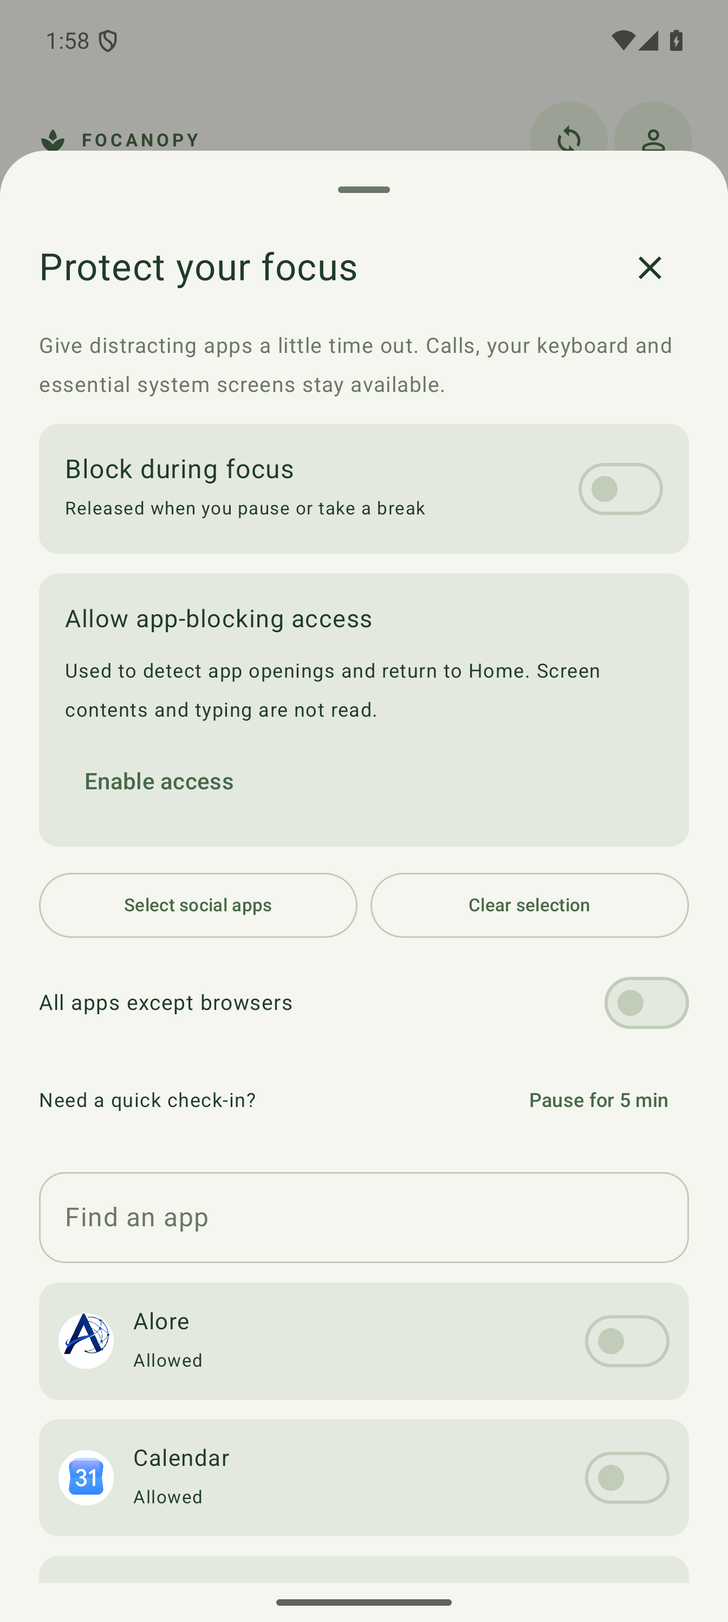
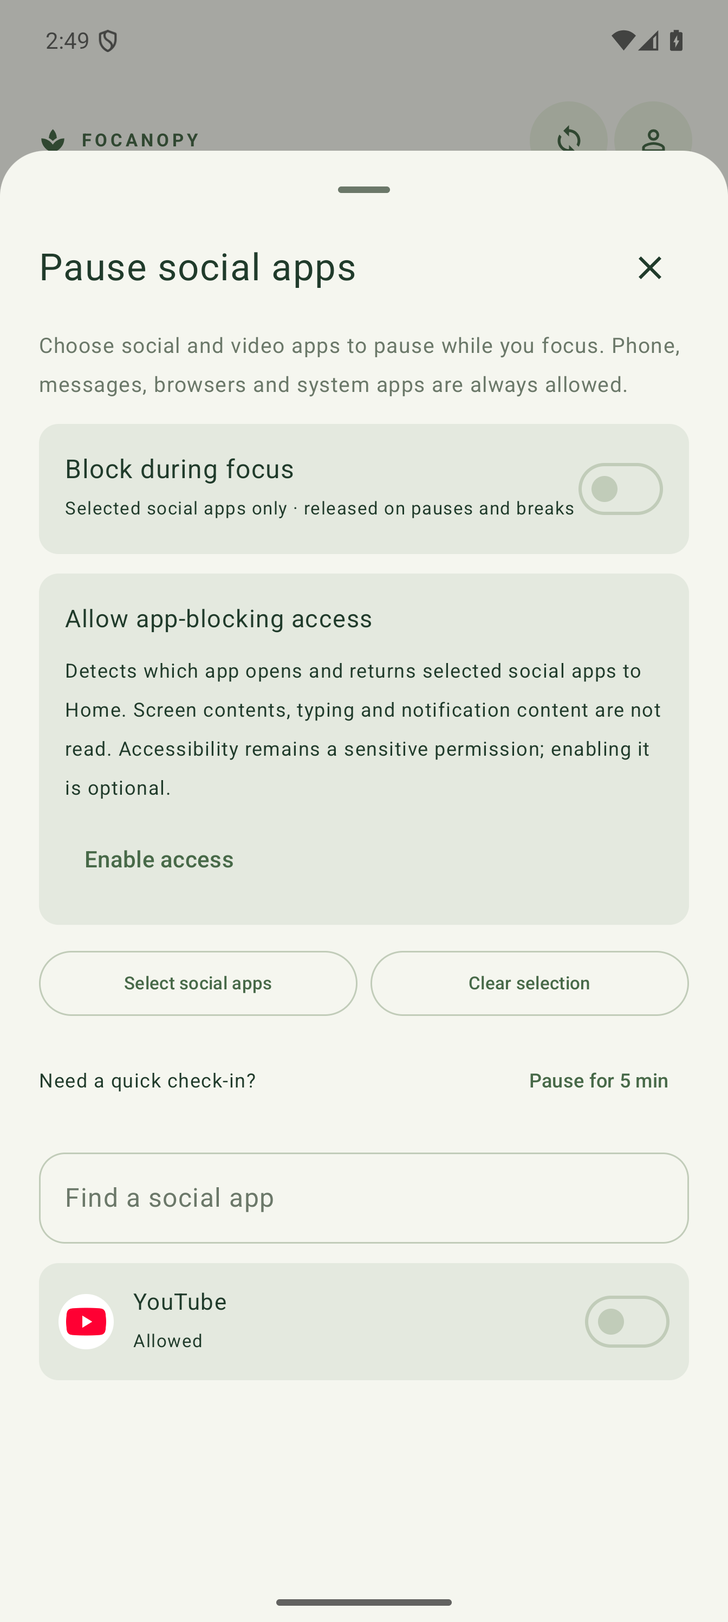
Limit Android focus blocking to selected social apps and clarify Play Protect limits

diff --git a/android/app/src/main/java/com/cybercat/stopwatch/BlockingSheet.kt b/android/app/src/main/java/com/cybercat/stopwatch/BlockingSheet.kt
@@ -1,9 +1,7 @@
 package com.cybercat.stopwatch
 
 import android.content.ComponentName
-import android.content.Intent
 import android.content.pm.PackageManager
-import android.net.Uri
 import android.provider.Settings
 import androidx.compose.foundation.layout.*
 import androidx.compose.foundation.lazy.LazyColumn
@@ -15,7 +13,6 @@ import androidx.compose.material3.*
 import androidx.compose.runtime.*
 import androidx.compose.ui.Alignment
 import androidx.compose.ui.Modifier
-import androidx.compose.ui.graphics.Color
 import androidx.compose.ui.platform.LocalContext
 import androidx.compose.ui.semantics.semantics
 import androidx.compose.ui.semantics.contentDescription
@@ -30,73 +27,63 @@ fun BlockingSheet(revision:Int,onAction:(String)->Unit,onClose:()->Unit) {
     val context=LocalContext.current
     val prefs=Repository.prefs
     var enabled by remember {mutableStateOf(prefs.getBoolean("focusBlocking",false))}
-    var all by remember {mutableStateOf(prefs.getBoolean("focusBlockAll",false))}
-    var selected by remember {mutableStateOf(prefs.getStringSet("blockedApps",emptySet()).orEmpty().toSet())}
-    var excluded by remember {mutableStateOf(prefs.getStringSet("excludedApps",emptySet()).orEmpty().toSet())}
+    var selected by remember {mutableStateOf(SocialApps.selection(prefs.getStringSet("blockedApps",emptySet()).orEmpty()))}
     var search by remember {mutableStateOf("")}
-    var apps by remember {mutableStateOf<List<android.content.pm.ResolveInfo>>(emptyList())}
-    var browsers by remember {mutableStateOf<Set<String>>(emptySet())}
+    var apps by remember {mutableStateOf<List<android.content.pm.ApplicationInfo>>(emptyList())}
     val component=ComponentName(context.packageName,FocusServiceName).flattenToString()
-    val granted=remember(revision) {(Settings.Secure.getString(context.contentResolver,Settings.Secure.ENABLED_ACCESSIBILITY_SERVICES) ?: "").split(':').any {it.equals(component,true)}}
+    val granted=remember(revision) {(Settings.Secure.getString(context.contentResolver,Settings.Secure.ENABLED_ACCESSIBILITY_SERVICES) ?: "").split(':').any {ComponentName.unflattenFromString(it)==ComponentName.unflattenFromString(component)}}
     val paused=prefs.getLong("blockSnoozeUntil",0)>System.currentTimeMillis()
-    fun persist() {prefs.edit().putBoolean("focusBlocking",enabled).putBoolean("focusBlockAll",all).putStringSet("blockedApps",selected).putStringSet("excludedApps",excluded).apply();onAction("refresh")}
+    fun persist() {prefs.edit().putBoolean("focusBlocking",enabled).putBoolean("focusBlockAll",false).putStringSet("blockedApps",SocialApps.selection(selected)).remove("excludedApps").apply();onAction("refresh")}
     LaunchedEffect(Unit) {
         if(!BuildConfig.APP_BLOCKING_AVAILABLE)return@LaunchedEffect
-        withContext(Dispatchers.IO) {
+        val installed=withContext(Dispatchers.IO) {
             val pm=context.packageManager
-            val homes=pm.queryIntentActivities(Intent(Intent.ACTION_MAIN).addCategory(Intent.CATEGORY_HOME),0).map{it.activityInfo.packageName}.toSet()
-            val keyboards=(context.getSystemService(android.content.Context.INPUT_METHOD_SERVICE) as android.view.inputmethod.InputMethodManager).enabledInputMethodList.map{it.packageName}.toSet()
-            val protected=homes+keyboards+setOf(context.packageName,"com.android.settings","com.android.phone","com.google.android.dialer","com.android.dialer")
-            val installed=pm.queryIntentActivities(Intent(Intent.ACTION_MAIN).addCategory(Intent.CATEGORY_LAUNCHER),0).filter{it.activityInfo.packageName !in protected}.distinctBy{it.activityInfo.packageName}.sortedBy{it.loadLabel(pm).toString().lowercase()}
-            val browserApps=pm.queryIntentActivities(Intent(Intent.ACTION_VIEW,Uri.parse("https://example.com")).addCategory(Intent.CATEGORY_BROWSABLE),PackageManager.GET_RESOLVED_FILTER).filter{it.filter?.countDataAuthorities()==0}.map{it.activityInfo.packageName}.toSet()
-            withContext(Dispatchers.Main) {apps=installed;browsers=browserApps}
+            SocialApps.packages.mapNotNull {id->
+                try {pm.getApplicationInfo(id,0).takeIf {it.enabled}}catch(_:PackageManager.NameNotFoundException){null}
+            }.sortedBy {it.loadLabel(pm).toString().lowercase()}
         }
+        apps=installed
     }
     LazyColumn(Modifier.fillMaxWidth().fillMaxHeight(.9f),contentPadding=PaddingValues(24.dp,0.dp,24.dp,32.dp),verticalArrangement=Arrangement.spacedBy(12.dp)) {
-        item {Row(verticalAlignment=Alignment.CenterVertically) {Text("Protect your focus",fontSize=23.sp,modifier=Modifier.weight(1f));IconButton(onClick=onClose){Icon(Icons.Default.Close,"Close app blocking")}}}
-        item {Text("Give distracting apps a little time out. Calls, your keyboard and essential system screens stay available.",fontSize=13.sp,color=MaterialTheme.colorScheme.onSurfaceVariant)}
+        item {Row(verticalAlignment=Alignment.CenterVertically) {Text("Pause social apps",fontSize=23.sp,modifier=Modifier.weight(1f));IconButton(onClick=onClose){Icon(Icons.Default.Close,"Close app blocking")}}}
+        item {Text("Choose social and video apps to pause while you focus. Phone, messages, browsers and system apps are always allowed.",fontSize=13.sp,color=MaterialTheme.colorScheme.onSurfaceVariant)}
         if(!BuildConfig.APP_BLOCKING_AVAILABLE) {
             item {Card {Column(Modifier.padding(20.dp),verticalArrangement=Arrangement.spacedBy(12.dp)) {
                 Icon(Icons.Default.Shield,null)
                 Text("App-blocking edition needed",fontSize=18.sp)
-                Text("The standard edition keeps Accessibility access out of the app. Install the separate app-blocking APK to choose social apps and other distractions. Your history stays with the same app.",fontSize=13.sp)
+                Text("The standard edition keeps Accessibility access out of the app. The optional social-blocking APK can pause supported social apps, but still needs Accessibility and may be blocked by Play Protect. Your history stays with the same app.",fontSize=13.sp)
                 Button(onClick={onAction("blockingDownload")}){Text("Get app-blocking edition")}
             }}}
         } else {
             item {Card {Row(Modifier.padding(16.dp),verticalAlignment=Alignment.CenterVertically) {
-                Column(Modifier.weight(1f)){Text("Block during focus");Text("Released when you pause or take a break",fontSize=11.sp)}
+                Column(Modifier.weight(1f)){Text("Block during focus");Text("Selected social apps only · released on pauses and breaks",fontSize=11.sp)}
                 Switch(enabled,onCheckedChange={enabled=it;persist()},modifier=Modifier.semantics {contentDescription="Block during focus"})
             }}}
             item {Card {Column(Modifier.padding(16.dp),verticalArrangement=Arrangement.spacedBy(8.dp)) {
                 Text(if(granted)"Accessibility access is ready" else "Allow app-blocking access",fontSize=15.sp)
-                Text("Used to detect app openings and return to Home. Screen contents and typing are not read.",fontSize=12.sp)
+                Text("Detects which app opens and returns selected social apps to Home. Screen contents, typing and notification content are not read. Accessibility remains a sensitive permission; enabling it is optional.",fontSize=12.sp)
                 TextButton(onClick={onAction("accessibility")}){Text(if(granted)"Manage access" else "Enable access")}
             }}}
             item {Row(horizontalArrangement=Arrangement.spacedBy(8.dp)) {
-                OutlinedButton(onClick={selected=selected+apps.map{it.activityInfo.packageName}.filter{it in socialPackages};excluded=excluded-socialPackages;all=false;enabled=true;persist()},modifier=Modifier.weight(1f)){Text("Select social apps",fontSize=11.sp)}
-                OutlinedButton(onClick={selected=emptySet();all=false;persist()},modifier=Modifier.weight(1f)){Text("Clear selection",fontSize=11.sp)}
-            }}
-            item {Row(verticalAlignment=Alignment.CenterVertically) {
-                Text("All apps except browsers",fontSize=13.sp,modifier=Modifier.weight(1f))
-                Switch(all,onCheckedChange={all=it;persist()},modifier=Modifier.semantics {contentDescription="All apps except browsers"})
+                OutlinedButton(onClick={selected=apps.map{it.packageName}.toSet();enabled=true;persist()},modifier=Modifier.weight(1f)){Text("Select social apps",fontSize=11.sp)}
+                OutlinedButton(onClick={selected=emptySet();persist()},modifier=Modifier.weight(1f)){Text("Clear selection",fontSize=11.sp)}
             }}
             item {Row(verticalAlignment=Alignment.CenterVertically,horizontalArrangement=Arrangement.spacedBy(8.dp)) {
                 Text(if(paused)"Blocks paused" else "Need a quick check-in?",fontSize=12.sp,modifier=Modifier.weight(1f))
                 TextButton(onClick={prefs.edit().putLong("blockSnoozeUntil",if(paused)0 else System.currentTimeMillis()+5*60000).apply();onAction("refresh")}){Text(if(paused)"Resume blocks" else "Pause for 5 min",fontSize=12.sp)}
             }}
-            item {OutlinedTextField(search,{search=it},label={Text("Find an app")},singleLine=true,modifier=Modifier.fillMaxWidth(),shape=RoundedCornerShape(16.dp))}
-            items(apps.filter{it.loadLabel(context.packageManager).toString().contains(search,true)},key={it.activityInfo.packageName}) {app->
-                val id=app.activityInfo.packageName
-                val browserAllowed=all && id in browsers
-                val on=!browserAllowed && id !in excluded && (all || id in selected)
+            item {OutlinedTextField(search,{search=it},label={Text("Find a social app")},singleLine=true,modifier=Modifier.fillMaxWidth(),shape=RoundedCornerShape(16.dp))}
+            if(apps.isEmpty()) item {Text("No supported social apps are installed. Phone, messages and other apps stay available.",fontSize=13.sp,color=MaterialTheme.colorScheme.onSurfaceVariant)}
+            items(apps.filter{it.loadLabel(context.packageManager).toString().contains(search,true)},key={it.packageName}) {app->
+                val id=app.packageName
+                val on=id in selected
                 Card {Row(Modifier.fillMaxWidth().padding(12.dp),verticalAlignment=Alignment.CenterVertically) {
                     AndroidView(factory={android.widget.ImageView(it).apply {importantForAccessibility=android.view.View.IMPORTANT_FOR_ACCESSIBILITY_NO}},update={it.setImageDrawable(app.loadIcon(context.packageManager))},modifier=Modifier.size(34.dp))
-                    Column(Modifier.weight(1f).padding(horizontal=12.dp)){Text(app.loadLabel(context.packageManager).toString(),fontSize=14.sp);Text(if(browserAllowed)"Browser · allowed" else if(on)"Blocked while focusing" else "Allowed",fontSize=11.sp)}
-                    Switch(on,onCheckedChange={value->if(all)excluded=if(value)excluded-id else excluded+id else {selected=if(value)selected+id else selected-id;if(value)excluded=excluded-id};persist()},enabled=!browserAllowed,modifier=Modifier.semantics {contentDescription="Block ${app.loadLabel(context.packageManager)}"})
+                    Column(Modifier.weight(1f).padding(horizontal=12.dp)){Text(app.loadLabel(context.packageManager).toString(),fontSize=14.sp);Text(if(on)"Blocked while focusing" else "Allowed",fontSize=11.sp)}
+                    Switch(on,onCheckedChange={value->selected=if(value)selected+id else selected-id;persist()},modifier=Modifier.semantics {contentDescription="Block ${app.loadLabel(context.packageManager)}"})
                 }}
             }
         }
     }
 }
 private const val FocusServiceName="com.cybercat.stopwatch.FocusAccessibilityService"
-private val socialPackages=setOf("com.instagram.android","com.facebook.katana","com.facebook.orca","com.twitter.android","com.reddit.frontpage","com.snapchat.android","com.zhiliaoapp.musically","com.ss.android.ugc.trill","com.pinterest","org.telegram.messenger","com.discord","com.whatsapp","com.google.android.youtube")

diff --git a/android/app/src/androidTest/java/com/cybercat/stopwatch/FocusBlockingDeviceTest.kt b/android/app/src/androidTest/java/com/cybercat/stopwatch/FocusBlockingDeviceTest.kt
@@ -12,7 +12,7 @@ class FocusBlockingDeviceTest {
         val deadline=android.os.SystemClock.elapsedRealtime()+timeout
         while(!condition()) {check(android.os.SystemClock.elapsedRealtime()<deadline){"Foreground app did not reach the expected blocking state"};Thread.sleep(100)}
     }
-    @Test fun selectedAppsBlockAndSnoozeWithoutPomodoro() {
+    @Test fun socialOnlyPolicyKeepsBrowserAndSettingsAvailable() {
         if(!BuildConfig.APP_BLOCKING_AVAILABLE)return
         val activity=InstrumentationRegistry.getInstrumentation().targetContext
         check(activity.packageName.endsWith(".qa"))
@@ -27,21 +27,61 @@ class FocusBlockingDeviceTest {
             shell("settings put secure accessibility_enabled 1")
             val manager=activity.getSystemService(android.view.accessibility.AccessibilityManager::class.java)
             waitUntil(10000){manager.getEnabledAccessibilityServiceList(android.accessibilityservice.AccessibilityServiceInfo.FEEDBACK_ALL_MASK).any{it.resolveInfo.serviceInfo.name=="com.cybercat.stopwatch.FocusAccessibilityService"}}
+            Thread.sleep(500)
             InstrumentationRegistry.getInstrumentation().runOnMainSync {
                 Repository.discard();Repository.selectMode(false)
-                Repository.prefs.edit().putBoolean("focusBlocking",true).putBoolean("focusBlockAll",false).putStringSet("blockedApps",setOf("com.android.chrome")).putStringSet("excludedApps",emptySet()).putLong("blockSnoozeUntil",0).apply()
+                Repository.prefs.edit().putBoolean("focusBlocking",true).putBoolean("focusBlockAll",true).putStringSet("blockedApps",setOf("com.android.chrome","com.android.settings","com.android.phone")).putStringSet("excludedApps",emptySet()).putLong("blockSnoozeUntil",0).apply()
                 Repository.start()
             }
             fun openChrome(){activity.startActivity(activity.packageManager.getLaunchIntentForPackage("com.android.chrome")!!.addFlags(android.content.Intent.FLAG_ACTIVITY_NEW_TASK));Thread.sleep(700)}
             fun chromeVisible()=automation.rootInActiveWindow?.packageName?.toString()=="com.android.chrome"
-            openChrome();waitUntil(5000){!chromeVisible()}
+            openChrome();waitUntil(5000){chromeVisible()}
+            Thread.sleep(1400)
+            Assert.assertTrue("Legacy selected browser must remain available",chromeVisible())
+            Assert.assertTrue("Focus must keep running",Repository.engine.phase=="running")
+            activity.startActivity(android.content.Intent(android.provider.Settings.ACTION_SETTINGS).addFlags(android.content.Intent.FLAG_ACTIVITY_NEW_TASK))
+            waitUntil(5000){automation.rootInActiveWindow?.packageName?.toString()=="com.android.settings"}
+            Thread.sleep(1400)
+            Assert.assertEquals("com.android.settings",automation.rootInActiveWindow?.packageName?.toString())
+        } finally {
+            InstrumentationRegistry.getInstrumentation().runOnMainSync {Repository.discard();Repository.prefs.edit().putBoolean("focusBlocking",false).putLong("blockSnoozeUntil",0).apply()}
+            if(original=="null" || original.isBlank())shell("settings delete secure enabled_accessibility_services") else shell("settings put secure enabled_accessibility_services $original")
+            shell("input keyevent KEYCODE_HOME")
+        }
+    }
+    @Test fun selectedSocialAppBlocksAndSnoozes() {
+        if(!BuildConfig.APP_BLOCKING_AVAILABLE)return
+        val activity=InstrumentationRegistry.getInstrumentation().targetContext
+        check(activity.packageName.endsWith(".qa"))
+        InstrumentationRegistry.getInstrumentation().runOnMainSync {Repository.init(activity)}
+        val automation=InstrumentationRegistry.getInstrumentation().getUiAutomation(android.app.UiAutomation.FLAG_DONT_SUPPRESS_ACCESSIBILITY_SERVICES)
+        fun shell(command:String):String=android.os.ParcelFileDescriptor.AutoCloseInputStream(automation.executeShellCommand(command)).bufferedReader().use{it.readText().trim()}
+        val original=shell("settings get secure enabled_accessibility_services")
+        val component="${activity.packageName}/com.cybercat.stopwatch.FocusAccessibilityService"
+        val combined=if(original=="null" || original.isBlank())component else "$original:$component"
+        try {
+            shell("settings put secure enabled_accessibility_services $combined")
+            shell("settings put secure accessibility_enabled 1")
+            val manager=activity.getSystemService(android.view.accessibility.AccessibilityManager::class.java)
+            waitUntil(10000){manager.getEnabledAccessibilityServiceList(android.accessibilityservice.AccessibilityServiceInfo.FEEDBACK_ALL_MASK).any{it.resolveInfo.serviceInfo.name=="com.cybercat.stopwatch.FocusAccessibilityService"}}
+            Thread.sleep(500)
+            InstrumentationRegistry.getInstrumentation().runOnMainSync {
+                Repository.discard();Repository.selectMode(false)
+                Repository.prefs.edit().putBoolean("focusBlocking",false).putBoolean("focusBlockAll",false).putStringSet("blockedApps",setOf("com.google.android.youtube")).putStringSet("excludedApps",emptySet()).putLong("blockSnoozeUntil",0).apply()
+                Repository.start()
+            }
+            fun openYouTube(){activity.startActivity(activity.packageManager.getLaunchIntentForPackage("com.google.android.youtube")!!.addFlags(android.content.Intent.FLAG_ACTIVITY_NEW_TASK));Thread.sleep(700)}
+            fun youtubeVisible()=automation.rootInActiveWindow?.packageName?.toString()=="com.google.android.youtube"
+            openYouTube();waitUntil(15000){youtubeVisible()}
+            InstrumentationRegistry.getInstrumentation().runOnMainSync {Repository.prefs.edit().putBoolean("focusBlocking",true).apply()}
+            waitUntil(10000){!youtubeVisible()}
             Assert.assertTrue("blocking must leave the session running",Repository.engine.phase=="running")
             InstrumentationRegistry.getInstrumentation().runOnMainSync {Repository.prefs.edit().putLong("blockSnoozeUntil",System.currentTimeMillis()+5*60000).apply()}
-            openChrome();waitUntil(5000){chromeVisible()}
+            openYouTube();waitUntil(10000){youtubeVisible()}
             InstrumentationRegistry.getInstrumentation().runOnMainSync {Repository.prefs.edit().putLong("blockSnoozeUntil",0).apply()}
-            waitUntil(5000){!chromeVisible()}
+            waitUntil(5000){!youtubeVisible()}
             InstrumentationRegistry.getInstrumentation().runOnMainSync {Repository.pause()}
-            openChrome();waitUntil(5000){chromeVisible()}
+            openYouTube();waitUntil(10000){youtubeVisible()}
         } finally {
             InstrumentationRegistry.getInstrumentation().runOnMainSync {Repository.discard();Repository.prefs.edit().putBoolean("focusBlocking",false).putLong("blockSnoozeUntil",0).apply()}
             if(original=="null" || original.isBlank())shell("settings delete secure enabled_accessibility_services") else shell("settings put secure enabled_accessibility_services $original")

diff --git a/android/app/src/appBlocking/java/com/cybercat/stopwatch/FocusAccessibilityService.kt b/android/app/src/appBlocking/java/com/cybercat/stopwatch/FocusAccessibilityService.kt
@@ -13,21 +13,6 @@ class FocusAccessibilityService:AccessibilityService() {
     private val watch=object:Runnable {override fun run(){lastPackage?.let{blockIfNeeded(it)};handler.postDelayed(this,1000)}}
     override fun onServiceConnected(){super.onServiceConnected();handler.removeCallbacks(watch);handler.post(watch)}
     override fun onDestroy(){handler.removeCallbacksAndMessages(null);super.onDestroy()}
-    private var refreshed=0L
-    private var launchers=emptySet<String>()
-    private var allowedSystem=emptySet<String>()
-    private var browsers=emptySet<String>()
-    private fun refreshApps() {
-        val now=SystemClock.elapsedRealtime()
-        if(refreshed!=0L && now-refreshed<30000)return
-        refreshed=now
-        val pm=packageManager
-        launchers=pm.queryIntentActivities(android.content.Intent(android.content.Intent.ACTION_MAIN).addCategory(android.content.Intent.CATEGORY_LAUNCHER),0).map { it.activityInfo.packageName }.toSet()
-        val home=pm.queryIntentActivities(android.content.Intent(android.content.Intent.ACTION_MAIN).addCategory(android.content.Intent.CATEGORY_HOME),0).map { it.activityInfo.packageName }.toSet()
-        val keyboards=(getSystemService(INPUT_METHOD_SERVICE) as android.view.inputmethod.InputMethodManager).enabledInputMethodList.map { it.packageName }.toSet()
-        allowedSystem=home+keyboards
-        browsers=pm.queryIntentActivities(android.content.Intent(android.content.Intent.ACTION_VIEW,android.net.Uri.parse("https://example.com")).addCategory(android.content.Intent.CATEGORY_BROWSABLE),android.content.pm.PackageManager.GET_RESOLVED_FILTER).filter { it.filter?.countDataAuthorities()==0 }.map { it.activityInfo.packageName }.toSet()
-    }
     override fun onAccessibilityEvent(event:AccessibilityEvent?) {
         if(event?.eventType!=AccessibilityEvent.TYPE_WINDOW_STATE_CHANGED)return
         lastPackage=event.packageName?.toString()
@@ -37,14 +22,10 @@ class FocusAccessibilityService:AccessibilityService() {
         Repository.init(this);Repository.advancePomodoro()
         if(Repository.prefs.getLong("blockSnoozeUntil",0)>System.currentTimeMillis())return
         if(!focusBlockingActive(Repository.pomodoroEnabled,Repository.engine.phase,Repository.pomodoro.stage,Repository.prefs.getBoolean("focusBlocking",false)))return
-        if(name==packageName || name in setOf("android","com.android.systemui","com.android.settings","com.android.phone","com.google.android.dialer","com.android.dialer","com.android.permissioncontroller","com.google.android.permissioncontroller"))return
-        val prefs=Repository.prefs
-        if(name in (prefs.getStringSet("excludedApps",emptySet()) ?: emptySet()))return
-        refreshApps()
-        if(!focusAppBlocked(name,prefs.getBoolean("focusBlockAll",false),prefs.getStringSet("blockedApps",emptySet()) ?: emptySet(),prefs.getStringSet("excludedApps",emptySet()) ?: emptySet(),browsers,allowedSystem,launchers))return
+        if(!SocialApps.blocked(name,Repository.prefs.getStringSet("blockedApps",emptySet()).orEmpty()))return
         performGlobalAction(GLOBAL_ACTION_HOME)
         val now=SystemClock.elapsedRealtime()
-        if(now-lastNotice>2000) { lastNotice=now;Toast.makeText(this,"Focus is growing. Pause the timer or disable app blocking to allow this app.",Toast.LENGTH_LONG).show() }
+        if(now-lastNotice>2000) { lastNotice=now;Toast.makeText(this,"Focus is growing. Pause the timer or pause social blocking to allow this app.",Toast.LENGTH_LONG).show() }
     }
     override fun onInterrupt() {}
 }

diff --git a/android/app/src/main/java/com/cybercat/stopwatch/FocanopyScreen.kt b/android/app/src/main/java/com/cybercat/stopwatch/FocanopyScreen.kt
@@ -182,7 +182,7 @@ fun FocanopyScreen(revision:Int,tab:String,onTab:(String)->Unit,profileOpen:Bool
                 listOf(5,10).forEach {minutes->FilterChip(selected=Repository.pomodoro.breakMinutes==minutes,onClick={Repository.selectMode(true,minutes);onAction("refresh")},label={Text("$minutes min")})}
             }}
         }
-        item {ActionRow("Protect your focus","Choose apps to keep out of your grove",Icons.Default.Shield){onAction("apps")}}
+        item {ActionRow("Protect your focus","Pause social distractions while you focus",Icons.Default.Shield){onAction("apps")}}
         item {TextButton(onClick={onAction("preview")},modifier=Modifier.fillMaxWidth()){Icon(Icons.Default.FastForward,null,Modifier.size(18.dp));Spacer(Modifier.width(8.dp));Text("Watch your grove grow")}}
         Repository.error?.let {error->item {Text(error,color=Coral,fontSize=12.sp)}}
     }
@@ -339,7 +339,7 @@ fun FocanopyScreen(revision:Int,tab:String,onTab:(String)->Unit,profileOpen:Bool
             }
         }}}
         item {Text("FOCUS & ACCESS",fontSize=10.sp,letterSpacing=1.5.sp,color=Muted,modifier=Modifier.padding(top=12.dp))}
-        item {ActionRow("Pause distracting apps","Social apps, chosen apps, and focus protection",Icons.Default.Shield){onAction("apps")}}
+        item {ActionRow("Pause social apps","Choose social distractions to pause during focus",Icons.Default.Shield){onAction("apps")}}
         item {ActionRow("Notifications","Focus controls when the app is in the background",Icons.Default.NotificationsNone){onAction("notifications")}}
         item {ActionRow("Tree growth preview","See a whole little lifecycle in seconds",Icons.Default.FastForward){onAction("preview")}}
         item {ActionRow("Export your journal","Keep a local JSON copy of your sessions",Icons.Default.FileDownload){onAction("export")}}

diff --git a/android/app/src/test/java/com/cybercat/stopwatch/SocialAppsTest.kt b/android/app/src/test/java/com/cybercat/stopwatch/SocialAppsTest.kt
@@ -1,0 +1,20 @@
+package com.cybercat.stopwatch
+import org.junit.Assert.*
+import org.junit.Test
+
+class SocialAppsTest {
+    @Test fun supportedSocialAppsStillRequireSelection() {
+        assertTrue(SocialApps.blocked("com.instagram.android",setOf("com.instagram.android")))
+        assertFalse(SocialApps.blocked("com.instagram.android",emptySet()))
+        assertFalse(SocialApps.blocked("com.instagram.android.fake",setOf("com.instagram.android.fake")))
+    }
+    @Test fun legacyOrTamperedSelectionCannotBlockEssentialOrOtherApps() {
+        val other=setOf("com.android.dialer","com.google.android.dialer","com.android.phone","com.android.settings","com.android.systemui","com.android.chrome","com.google.android.inputmethod.latin","com.whatsapp","org.telegram.messenger","com.facebook.orca","com.discord","com.android.calendar","com.jetbrains.android")
+        other.forEach {assertFalse(it,SocialApps.blocked(it,other))}
+        assertTrue(SocialApps.selection(other).isEmpty())
+    }
+    @Test fun migrationKeepsOnlyExplicitlySelectedSocialPackages() {
+        assertEquals(setOf("com.reddit.frontpage"),SocialApps.selection(setOf("com.reddit.frontpage","com.android.phone","com.android.chrome")))
+        assertFalse(SocialApps.packages.any {it.contains("dialer") || it.contains("phone")})
+    }
+}

diff --git a/android/app/src/test/java/com/cybercat/stopwatch/PomodoroTest.kt b/android/app/src/test/java/com/cybercat/stopwatch/PomodoroTest.kt
@@ -17,13 +17,6 @@ class PomodoroTest {
         assertFalse(focusBlockingActive(true,"paused","break",true))
         assertFalse(focusBlockingActive(true,"paused","ready",true))
     }
-    @Test fun allAppsRespectBrowsersExclusionsAndProtectedApps() {
-        fun blocked(name:String,all:Boolean=true)=focusAppBlocked(name,all,setOf("studio","browser"),setOf("music"),setOf("browser"),setOf("home","keyboard"),setOf("studio","browser","music","home","keyboard"))
-        assertTrue(blocked("studio"));assertFalse(blocked("browser"));assertFalse(blocked("music"));assertFalse(blocked("home"));assertFalse(blocked("keyboard"));assertFalse(blocked("system-agent"))
-        assertTrue(blocked("browser",false));assertFalse(blocked("music",false))
-        assertFalse(focusBlockingActive(true,"running","break",true))
-        assertFalse(focusBlockingActive(false,"paused","focus",true))
-    }
     @Test fun breaksAreExcludedAndNextRoundIsManual() {
         var now=0L;var wall=100000L;val plan=Pomodoro({now},{wall});val timer=TimerEngine {now}
         timer.start();now+=1500000;wall+=1500000

diff --git a/android/app/src/androidTest/java/com/cybercat/stopwatch/ComposeMvpTest.kt b/android/app/src/androidTest/java/com/cybercat/stopwatch/ComposeMvpTest.kt
@@ -135,10 +135,13 @@ class ComposeMvpTest {
 
     @Test fun appBlockingControlsAreAvailableOutsidePomodoro() {
         compose.onNodeWithText("Settings").performClick()
-        compose.onNodeWithText("Pause distracting apps").performScrollTo().performClick()
+        compose.onNodeWithText("Pause social apps").performScrollTo().performClick()
         if(BuildConfig.APP_BLOCKING_AVAILABLE) {
             compose.onNodeWithText("Select social apps").assertIsDisplayed()
             compose.onNodeWithText("Block during focus").assertIsDisplayed()
+            compose.onNodeWithText("All apps except browsers").assertDoesNotExist()
+            compose.onNodeWithContentDescription("Block Phone").assertDoesNotExist()
+            compose.onNodeWithContentDescription("Block Chrome").assertDoesNotExist()
         } else compose.onNodeWithText("App-blocking edition needed").assertIsDisplayed()
         capture("blocking")
     }

diff --git a/android/app/src/main/java/com/cybercat/stopwatch/Pomodoro.kt b/android/app/src/main/java/com/cybercat/stopwatch/Pomodoro.kt
@@ -28,10 +28,6 @@ class Pomodoro(private val clock:()->Long,private val wall:()->Long) {
 
 fun focusBlockingActive(pomodoro:Boolean,phase:String,stage:String,enabled:Boolean):Boolean = phase=="running" && (!pomodoro || stage=="focus") && enabled
 
-/** System essentials and user exclusions always win. Browsers are allowed only in all-app mode. */
-fun focusAppBlocked(name:String,all:Boolean,selected:Set<String>,excluded:Set<String>,browsers:Set<String>,protected:Set<String>,launchers:Set<String>):Boolean =
-    name !in protected && name !in excluded && (if(all) name in launchers && name !in browsers else name in selected)
-
 data class TreePreviewFrame(val elapsed:Long,val dead:Boolean,val death:Float,val title:String) {
     companion object {
         fun at(time:Float):TreePreviewFrame {

diff --git a/android/app/src/main/java/com/cybercat/stopwatch/SocialApps.kt b/android/app/src/main/java/com/cybercat/stopwatch/SocialApps.kt
@@ -1,0 +1,14 @@
+package com.cybercat.stopwatch
+
+/** Deliberate social/video allowlist. System, phone, messaging and browser apps cannot be selected. */
+object SocialApps {
+    val packages=setOf(
+        "com.instagram.android","com.instagram.lite","com.instagram.barcelona",
+        "com.facebook.katana","com.facebook.lite","com.twitter.android",
+        "com.reddit.frontpage","com.snapchat.android","com.zhiliaoapp.musically",
+        "com.ss.android.ugc.trill","com.zhiliaoapp.musically.go","com.pinterest",
+        "com.google.android.youtube","com.linkedin.android"
+    )
+    fun selection(selected:Set<String>)=selected.intersect(packages)
+    fun blocked(name:String,selected:Set<String>)=name in packages && name in selected
+}

diff --git a/android/app/src/main/java/com/cybercat/stopwatch/Repository.kt b/android/app/src/main/java/com/cybercat/stopwatch/Repository.kt
@@ -32,6 +32,9 @@ object Repository {
     fun init(c: Context) {
         if (initialized) return
         context = c.applicationContext; initialized = true
+        // Retire broad app-blocking preferences on upgrade. Runtime checks also enforce this allowlist.
+        prefs.edit().putStringSet("blockedApps",SocialApps.selection(prefs.getStringSet("blockedApps",emptySet()).orEmpty()))
+            .putBoolean("focusBlockAll",false).remove("excludedApps").apply()
         try {
             if (file.baseFile.exists() || File(context.filesDir, "sessions.json.bak").exists()) {
                 val array = JSONArray(file.openRead().bufferedReader().use { it.readText() })

diff --git a/README.md b/README.md
@@ -27,7 +27,7 @@ A native-renderer preview of gradual growth, a completed flower, overlapping tre
 |---|---|---|
 | **Android focus flow** | Start → pause → resume → finish → name a session → open the journal | [Focus & journal walkthrough](docs/DEMOS.md#android-focus-to-journal) |
 | **Floating companion** | Show the tree, drag from the card or buttons, pause, and resume | [Floating timer](docs/DEMOS.md#android-floating-companion) |
-| **Distraction blocking** | Select social apps, choose exceptions, and pause blocks for five minutes | [Focus protection](docs/DEMOS.md#android-focus-protection) |
+| **Distraction blocking** | Select supported social/video apps and pause blocks for five minutes | [Focus protection](docs/DEMOS.md#android-focus-protection) |
 | **Desktop apps** | Keep the tree above your work and review the calendar | [macOS, Windows & Linux](docs/DEMOS.md#native-desktop-apps) |
 | **Tree lifecycle simulator** | Preview growth, completion, the next tree, and withering | [Try the built-in demo](docs/DEMOS.md#tree-lifecycle-simulator) |
 
@@ -68,7 +68,7 @@ The primary Android experience is built with **Jetpack Compose + Material 3**: l
   <tr><th>Make it yours</th><th>Apps & permissions</th><th>Ready to focus</th></tr>
   <tr>
     <td><img src="docs/screenshots/android-compose-settings.png" alt="Grouped Android settings for the account, floating tree, appearance, and permissions" width="250" /></td>
-    <td><img src="docs/screenshots/android-compose-blocking.png" alt="App-blocking switches with app icons, browser exceptions, and permission status" width="250" /></td>
+    <td><img src="docs/screenshots/android-compose-blocking.png" alt="Social-app switches with app icons and permission status" width="250" /></td>
     <td><img src="docs/screenshots/android-compose-focus.png" alt="Android Compose idle focus screen with square start and finish controls" width="250" /></td>
   </tr>
 </table>
@@ -96,7 +96,7 @@ Appearance changes keep your current timer running. **System** follows the devic
   <tr><th>Floating timer</th><th>Choose what stays outside your focus</th></tr>
   <tr>
     <td align="center"><a href="docs/screenshots/android-compose-floating.png"><img src="docs/screenshots/android-compose-floating.png" alt="Android floating card with a growing tree, elapsed time, pause, finish, and hide controls" width="300" /></a></td>
-    <td align="center"><a href="docs/screenshots/android-compose-blocking.png"><img src="docs/screenshots/android-compose-blocking.png" alt="Compose app-blocking sheet with social-app selection, browser exceptions, five-minute pause, and individual app toggles" width="300" /></a></td>
+    <td align="center"><a href="docs/screenshots/android-compose-blocking.png"><img src="docs/screenshots/android-compose-blocking.png" alt="Compose app-blocking sheet with social-app selection, five-minute pause, and individual app toggles" width="300" /></a></td>
   </tr>
 </table>
 
@@ -183,7 +183,7 @@ Rewards are derived from session durations. Short sessions add up, and edits or 
 
 **Android package choice:** the standard APK omits the Accessibility service, app-blocking implementation, and installed-app inventory queries. Timing, Pomodoro, trees, history, sync, notification controls, and the optional floating tree remain available. The separate [app-blocking APK](https://github.com/ashu-sa/focanopy/releases/latest/download/Focanopy-Android-app-blocking.apk) declares sensitive Accessibility access and may be blocked by Play Protect when sideloaded. Do not disable Play Protect to install it. The app-blocking screenshots show this optional build.
 
-**App blocking (optional Android build / desktop):** select social apps, choose individual apps, or block all apps except browsers and your exclusions. Android also offers a five-minute pause for blocks. Blocking works with the ordinary timer and Flower Focus, and releases during pauses and breaks. Android requires explicit Accessibility access; desktop behaviour depends on the OS. See [Pomodoro & app blocking](POMODORO.md) for setup and platform limits.
+**App blocking:** Android’s optional build can block **only selected supported social/video apps**. Phone, messaging, browsers, keyboards and system tools cannot be selected, including through old saved settings. A five-minute snooze is available. Desktop builds retain their separate selected/all-except-browser options. Blocking releases during timer pauses and breaks. Android still needs Accessibility, so social-only behavior does **not** remove the Play Protect sideloading restriction. See [Pomodoro & app blocking](POMODORO.md).
 
 **Cross-device history:** connect the same Google account on each device. Legacy username/PIN accounts remain available in desktop clients and stay separate from Google accounts. Completed sessions sync with their source-device labels; active timers stay on their own devices. Offline edits are retained, and conflicting edits have explicit resolution choices. Existing local history uploads only when you choose to include it. See [accounts & sync](backend/README.md).
 

diff --git a/android/README.md b/android/README.md
@@ -71,7 +71,7 @@ Output: `app/build/outputs/apk/debug/app-debug.apk`.
 
 ## Verification
 
-Both standard and app-blocking builds pass lint and 22 JVM tests each. Compose UI tests on the isolated Android 15 QA emulator cover timer controls, save/rename, calendar/profile/settings, Pomodoro automatic completion, background timing and the standard APK’s exclusion of the Accessibility blocker. See **Compose device tests** below for the current commands. Screenshots use sample sessions, never personal activity.
+Both standard and app-blocking builds pass lint and 24 JVM tests each. Compose UI tests on the isolated Android 15 QA emulator cover timer controls, save/rename, calendar/profile/settings, Pomodoro automatic completion, background timing and the standard APK’s exclusion of the Accessibility blocker. See **Compose device tests** below for the current commands. Screenshots use sample sessions, never personal activity.
 
 Physical-phone notification/overlay behavior, manufacturer battery policies, deep-sleep/reboot recovery, and real Google consent across devices still require device testing. Earlier View-based instrumentation files are historical and do not validate the new Compose screens.
 
@@ -126,7 +126,7 @@ These tests use Compose semantics to exercise actual start/pause/resume/save/ren
 
 ## Focus protection (optional app-blocking edition)
 
-Open **Settings → Pause distracting apps**. Enable **Block during focus**, then grant Accessibility access in Android Settings yourself. Use **Select social apps**, individual app switches, or **All apps except browsers** with per-app exclusions. Calls, Home, keyboards and essential system screens remain available.
+Open **Settings → Pause social apps**. Enable **Block during focus**, then grant Accessibility access in Android Settings yourself. Use **Select social apps** or individual switches for supported social/video apps. The app cannot block phone, messaging, browsers, Home, keyboards or system tools. The former all-apps mode is removed; legacy selections are filtered on upgrade.
 
 Blocking works during ordinary timing and Flower Focus. Opening a selected app returns to Home; Android does not suspend or uninstall that app. Pausing the timer, taking a Pomodoro break or disabling blocking releases it. **Pause for 5 min** temporarily allows apps without stopping the timer; **Resume blocks** restores protection early. Blocking resumes when that pause expires, including when a selected app is still open. Force stop, disabled Accessibility or device restrictions can stop enforcement.
 
@@ -140,4 +140,10 @@ The optional blocker enforcement check runs separately from Compose’s Activity
 adb -s emulator-5556 shell am instrument -w -e class com.cybercat.stopwatch.ComposeMvpTest,com.cybercat.stopwatch.FocusBlockingDeviceTest com.cybercat.stopwatch.qa.test/androidx.test.runner.AndroidJUnitRunner
 ```
 
-The seven-test app-blocking run covers returning a selected app to Home, temporarily releasing it, restoring protection and allowing it while timing is paused. Only the isolated `.qa` package is used; no real Google credentials or personal sessions are exercised.
+The app-blocking device checks cover returning a selected social/video app to Home, temporarily releasing it, restoring protection, allowing it while timing is paused, and ensuring legacy browser/system selections cannot be blocked. Only the isolated `.qa` package is used; no real Google credentials or personal sessions are exercised.
+
+### Social-only does not remove the Play Protect restriction
+
+The allowlist includes Instagram, Facebook, Threads, X, Reddit, Snapchat, TikTok, Pinterest, YouTube and LinkedIn (including listed Lite/regional variants). Calls, SMS/messaging, browsers and unrelated apps are not blockable. WhatsApp, Telegram, Messenger and Discord are not in the list. The optional build only queries known social-package metadata, rather than enumerating every installed launcher app. It receives foreground window-package events to enforce the selection and snooze expiry; it does not retrieve screen contents, typing or notification content.
+
+This is a behavior restriction, **not Google approval**. Internet-sideloaded APKs declaring Accessibility can still be blocked for sensitive access. Keep Play Protect enabled. The standard APK excludes the Accessibility service and has no social-package inventory queries; it retains the timer, journal, sign-in, sync and optional overlay, but cannot block other apps. If a warning persists, its exact text and package build should be checked against [Google’s developer guidance](https://developers.google.com/android/play-protect/warning-dev-guidance). Google offers an appeal process for classifications believed to be erroneous; approval is not guaranteed.
